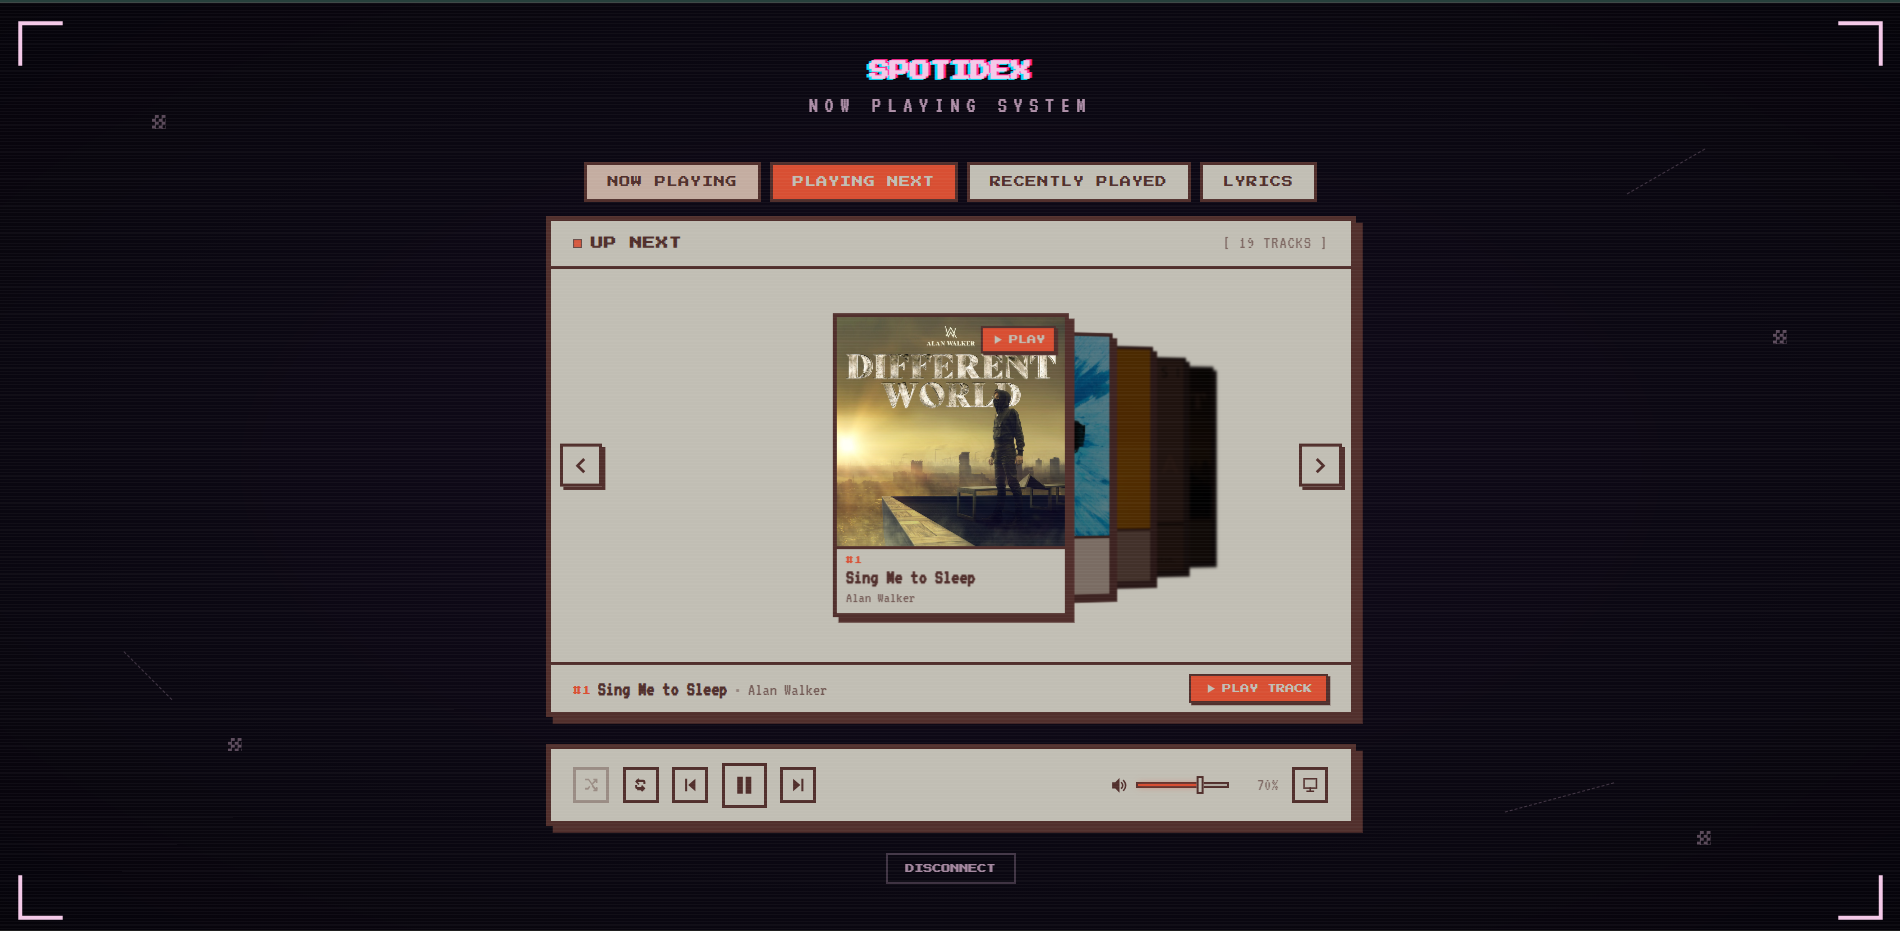
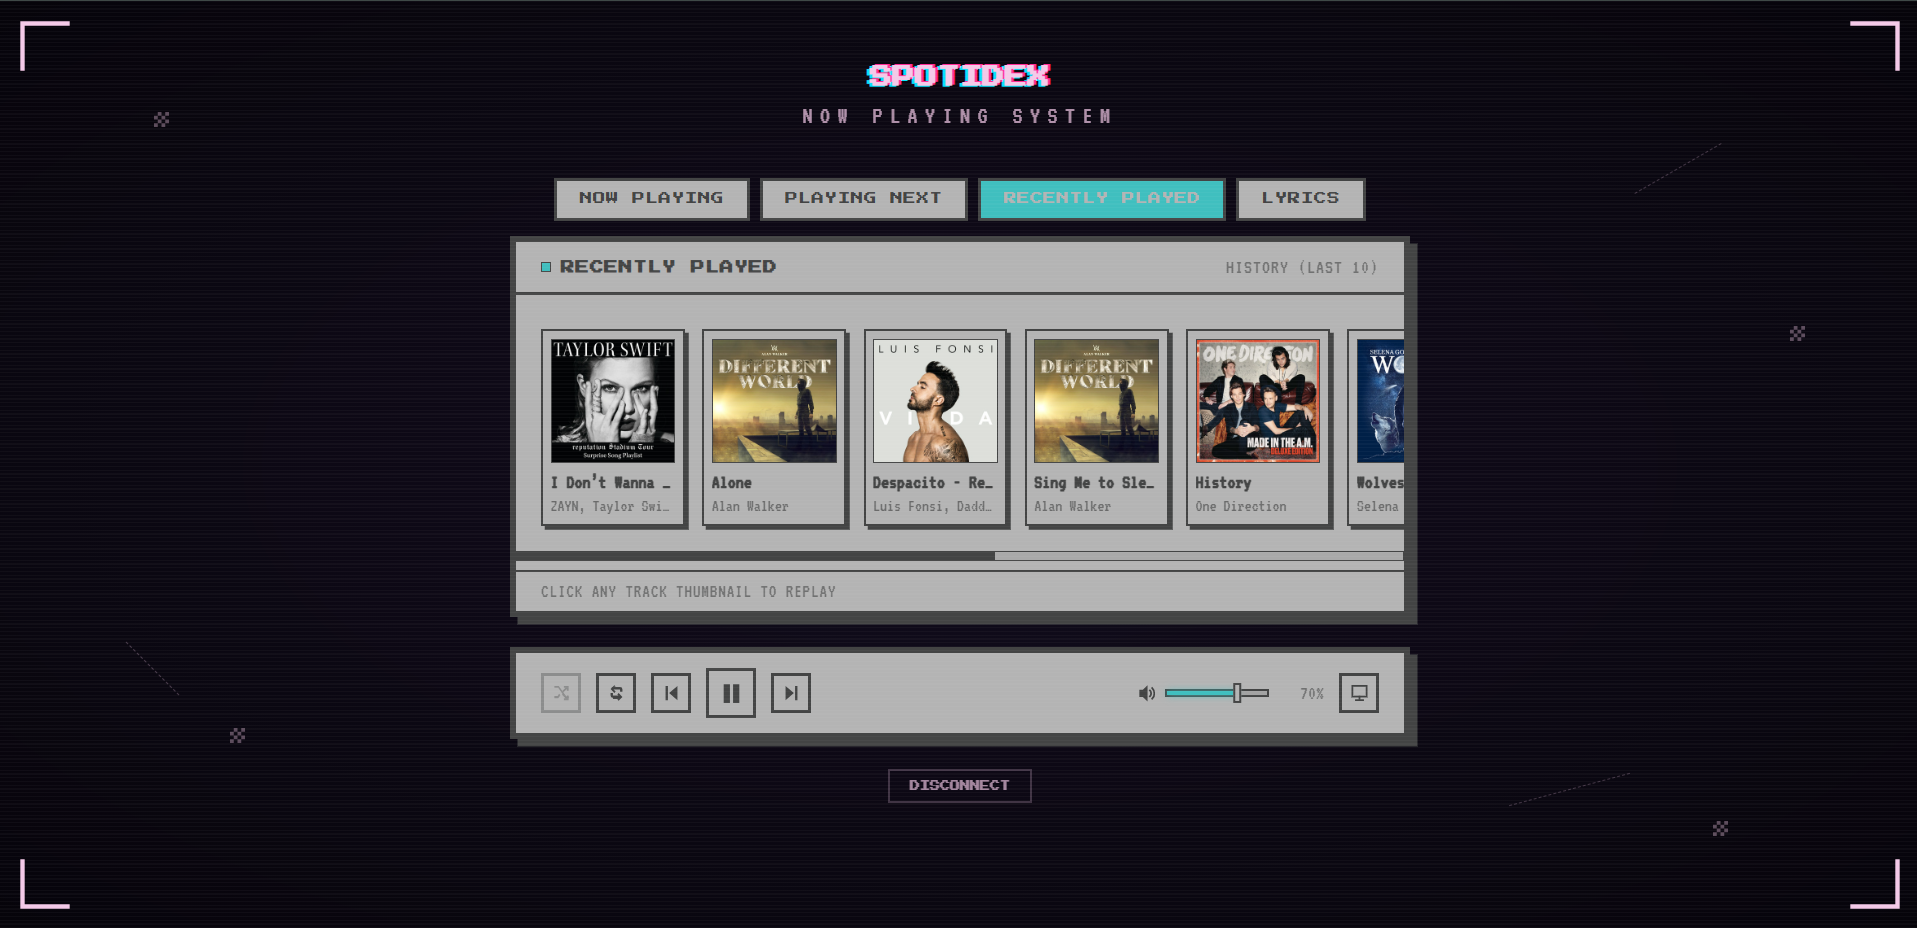
docs: add MIT LICENSE and update RecentlyPlayed screenshot

diff --git a/README.md b/README.md
@@ -241,7 +241,7 @@ npm run build
 
 ## 📄 License
 
-Distributed under the **MIT License**. See `LICENSE` for more information.
+Distributed under the **MIT License**. See [LICENSE](LICENSE) for more information.
 
 <div align="center">
 Built with ❤, pixel art, and lots of coffee by <a href="https://github.com/yashkokane1031">Yash Kokane</a>.
